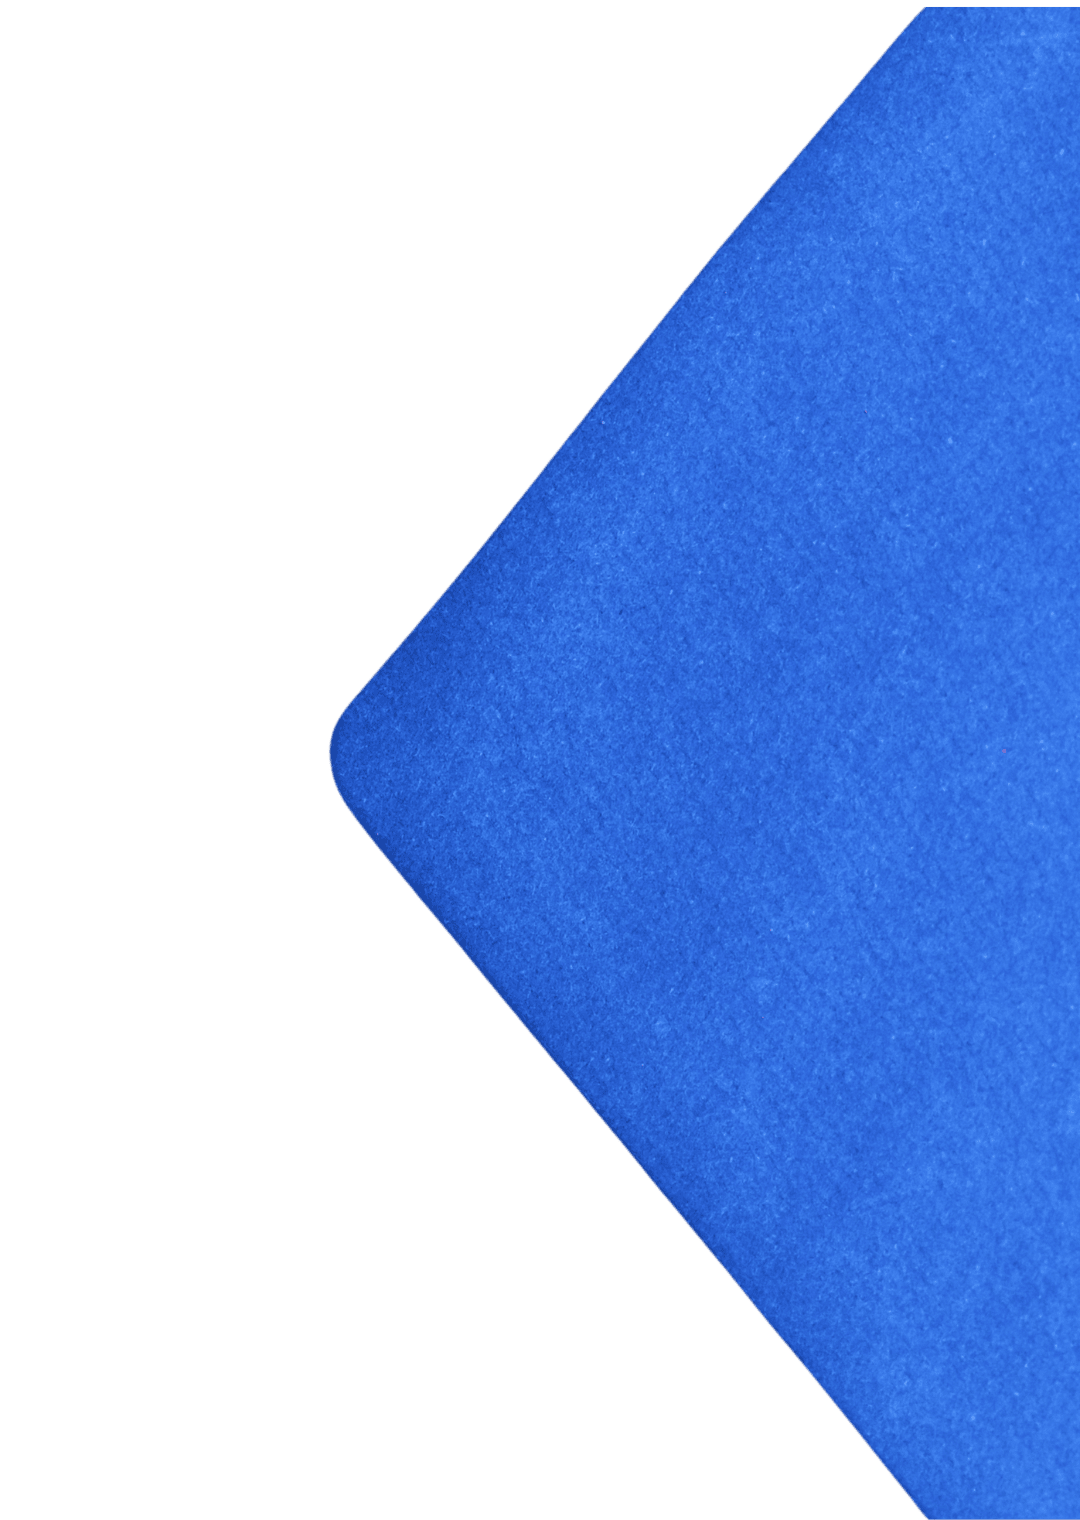
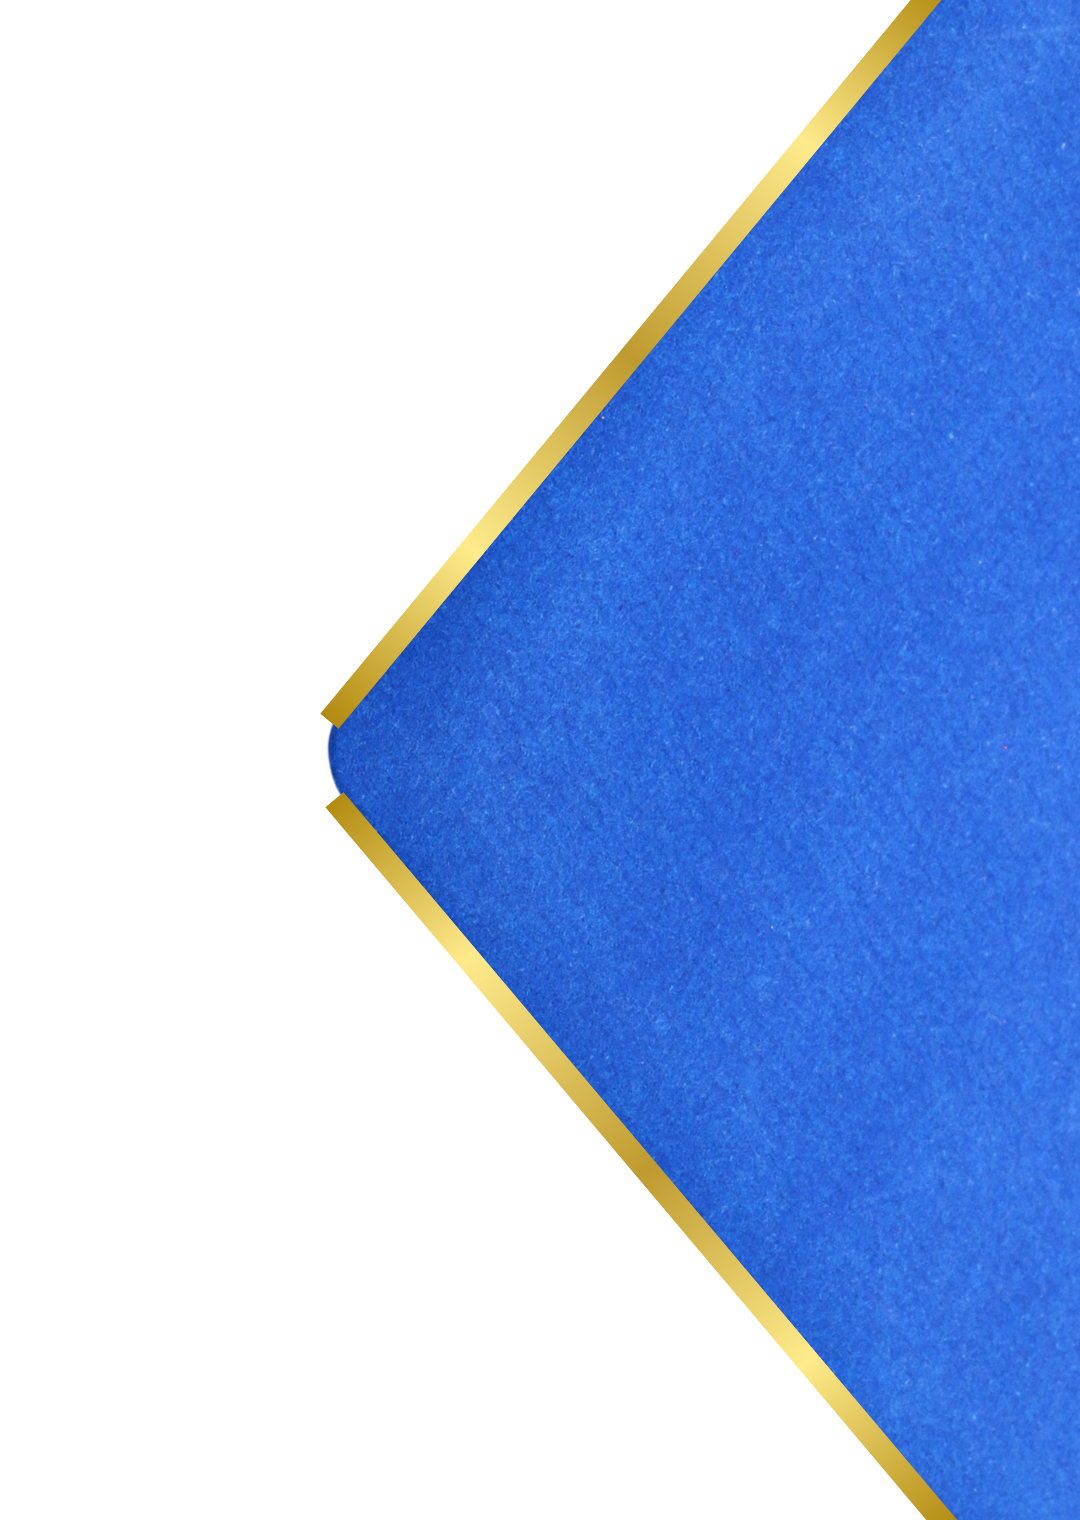
chalala

Changed region(s): [[0.3056, 0.0, 1.0, 1.0], [0.5194, 0.402, 0.55, 0.4329]]

diff --git a/src/components/Invitacion/components/modelo 3/vestimenta.js b/src/components/Invitacion/components/modelo 3/vestimenta.js
@@ -27,6 +27,10 @@ import tonoRojo from '../../../../multimedia/herramientas/tonos rojo.png';
 import tonosHM from '../../../../multimedia/herramientas/tonos hombre y mujer.png';
 import colores from '../../../../multimedia/herramientas/Azul.png';
 
+import icono from '../../../../multimedia/herramientas/adorno dorado.gif';
+import iconoDerecho from '../../../../multimedia/herramientas/Detalle Horizontal derecho.gif';
+import flor from '../../../../multimedia/herramientas/flor central.png';
+
 function Vestimenta ({fondo, datos, festejado, modo}){
 
     return(
@@ -35,6 +39,13 @@ function Vestimenta ({fondo, datos, festejado, modo}){
                 <img loading='lazy' className='fondo' src={fondo.url} alt='...' />
             )}
             <p className="titulo">Código de vestimenta</p>
+            {festejado === 'Consuelo & Andrés' && (
+                <div className='efecto'>
+                    <img src={icono} className='icono' alt='...' />
+                    <img src={flor} className='flor' alt='...' />
+                    <img src={iconoDerecho} className='icono' alt='...' />
+                </div>
+            )}
             <>
                 {modo === 'oscuro' && (
                     <>
@@ -82,12 +93,25 @@ function Vestimenta ({fondo, datos, festejado, modo}){
                     <>
                         {datos.codigo === 'Etiqueta' ? (
                             <>
-                                <div className='iconos'>
-                                    <img loading='lazy' className="icono" src={trajeEtiquetaClaro} alt="..." />
-                                    <img loading='lazy' className="icono" src={vestidoEtiquetaClaro} alt="..." />
-                                </div>
+                                {festejado === 'Consuelo & Andrés' ? (
+                                    <>
+                                        <div className='iconosConand'>
+                                            <img loading='lazy' className="icono" src={trajeEtiquetaClaro} alt="..." />
+                                            <img loading='lazy' className="icono" src={vestidoEtiquetaClaro} alt="..." />
+                                        </div>
 
-                                <p>{datos.codigo}{festejado === 'Alejandra & Alexander' &&(<> rigurosa</>)}</p>
+                                        <p>{datos.codigo}</p>
+                                    </>
+                                ):(
+                                    <>
+                                        <div className='iconos'>
+                                            <img loading='lazy' className="icono" src={trajeEtiquetaClaro} alt="..." />
+                                            <img loading='lazy' className="icono" src={vestidoEtiquetaClaro} alt="..." />
+                                        </div>
+
+                                        <p>{datos.codigo}{festejado === 'Alejandra & Alexander' &&(<> rigurosa</>)}</p>
+                                    </>
+                                )}
                             </>
                         ): datos.codigo === 'Formal' ? (
                             <>

diff --git a/src/styles/modulos/_invitacionesModelo03.scss b/src/styles/modulos/_invitacionesModelo03.scss
@@ -171,18 +171,20 @@ $font-message-size: var(--font-message-size);
         align-items: center;
     
         position: fixed;
-        z-index: 110;
+        z-index: 1110;
         top: 0;
         left: 0;
         width: 400px;
         height: 100vh;
     
         .img {
-            width: 40%;
-            height: 100vh;
+            width: 100%;
+            height: 105vh;
             object-fit: cover;
             transition: transform 0.8s ease-in-out, opacity 0.8s ease-in-out;
     
+            position: absolute;
+
             &.izquierda {
                 transform: translateX(0);
             }
@@ -192,19 +194,27 @@ $font-message-size: var(--font-message-size);
             }
         }
     
-        button {
+        .boton {
             position: absolute;
+            left: 30px;
             z-index: 20;
             background: none;
             border: none;
             cursor: pointer;
     
             img.sello {
-                width: 100px;
+                width: 170px;
+                object-fit: contain;
             }
         }
     
         &.hidden {
+            
+            .boton {
+                transform: translateX(-100%);
+                opacity: 0;
+            }
+
             .img.izquierda {
                 transform: translateX(-100%);
                 opacity: 0;
@@ -1786,6 +1796,27 @@ $font-message-size: var(--font-message-size);
                 z-index: 100;
             }
 
+            .efecto{
+                display: flex;
+                flex-direction: row;
+                justify-content: space-evenly;
+
+                z-index: 100;
+
+                width: 95%;
+
+                margin-top: -50px;
+
+                .icono{
+                    width: 120px;
+
+                }
+
+                .flor{
+                    width: 80px;
+                }
+            }
+
             .iconos{
                 display: flex;
                 flex-direction: row;
@@ -1798,6 +1829,26 @@ $font-message-size: var(--font-message-size);
                 .icono{
                     width: 170px;
                     padding: 10px;
+                }
+            }
+
+            .iconosConand{
+                display: flex;
+                flex-direction: column;
+                justify-content: space-evenly;
+
+                z-index: 100;
+
+                height: 400px;
+
+                margin: 15px 10px;
+
+                .icono{
+                    width: 170px;
+                    padding: 10px;
+
+                    border-radius: 50%;
+                    border: 2px solid #C99309;
                 }
             }
 

diff --git a/src/styles/styles.css b/src/styles/styles.css
@@ -1459,7 +1459,7 @@
 
 .modelo3 {
   position: relative;
-  z-index: 100;
+  z-index: 150;
   margin-top: 70px;
 }
 .modelo3 .portada {
@@ -1534,11 +1534,50 @@
   display: flex;
   flex-direction: row;
   justify-content: center;
-  width: 95%;
+  align-items: center;
+  position: fixed;
+  z-index: 1110;
+  top: 0;
+  left: 0;
+  width: 400px;
   height: 100vh;
 }
 .modelo3 .sobre .img {
-  width: 50%;
+  width: 100%;
+  height: 105vh;
+  object-fit: cover;
+  transition: transform 0.8s ease-in-out, opacity 0.8s ease-in-out;
+  position: absolute;
+}
+.modelo3 .sobre .img.izquierda {
+  transform: translateX(0);
+}
+.modelo3 .sobre .img.derecha {
+  transform: translateX(0);
+}
+.modelo3 .sobre .boton {
+  position: absolute;
+  left: 30px;
+  z-index: 20;
+  background: none;
+  border: none;
+  cursor: pointer;
+}
+.modelo3 .sobre .boton img.sello {
+  width: 170px;
+  object-fit: contain;
+}
+.modelo3 .sobre.hidden .boton {
+  transform: translateX(-100%);
+  opacity: 0;
+}
+.modelo3 .sobre.hidden .img.izquierda {
+  transform: translateX(-100%);
+  opacity: 0;
+}
+.modelo3 .sobre.hidden .img.derecha {
+  transform: translateX(100%);
+  opacity: 0;
 }
 .modelo3 .alternativa-portada {
   display: flex;
@@ -2699,6 +2738,20 @@
   margin-top: 20px;
   z-index: 100;
 }
+.modelo3 .caja .vestimenta .efecto {
+  display: flex;
+  flex-direction: row;
+  justify-content: space-evenly;
+  z-index: 100;
+  width: 95%;
+  margin-top: -50px;
+}
+.modelo3 .caja .vestimenta .efecto .icono {
+  width: 120px;
+}
+.modelo3 .caja .vestimenta .efecto .flor {
+  width: 80px;
+}
 .modelo3 .caja .vestimenta .iconos {
   display: flex;
   flex-direction: row;
@@ -2709,6 +2762,20 @@
 .modelo3 .caja .vestimenta .iconos .icono {
   width: 170px;
   padding: 10px;
+}
+.modelo3 .caja .vestimenta .iconosConand {
+  display: flex;
+  flex-direction: column;
+  justify-content: space-evenly;
+  z-index: 100;
+  height: 400px;
+  margin: 15px 10px;
+}
+.modelo3 .caja .vestimenta .iconosConand .icono {
+  width: 170px;
+  padding: 10px;
+  border-radius: 50%;
+  border: 2px solid #C99309;
 }
 .modelo3 .caja .vestimenta .flores {
   display: flex;

diff --git a/src/components/Invitacion/components/modelo 3/sobre.js b/src/components/Invitacion/components/modelo 3/sobre.js
@@ -1,20 +1,28 @@
 import React, { useState } from 'react';
 import izquierda from '../../../../multimedia/herramientas/sobre izquierda.png';
 import derecha from '../../../../multimedia/herramientas/sobre derecha.png';
-import sello from '../../../../multimedia/herramientas/sello conand.jpg';
+import sello from '../../../../multimedia/herramientas/sello conand.gif';
 
 function Sobre() {
     const [hideImages, setHideImages] = useState(false);
 
     const handleClick = () => {
         setHideImages(true);
+
+        const sobre = document.querySelector('.sobre');
+        sobre.classList.add('hidden'); // Agrega la clase para animar
+    
+        // Espera el tiempo de la animación antes de aplicar display: none
+        setTimeout(() => {
+          sobre.style.display = 'none';
+        }, 500); 
     };
 
     return (
         <section className={`sobre ${hideImages ? 'hidden' : ''}`}>
             <img className="img izquierda" src={izquierda} alt="..." />
             <img className="img derecha" src={derecha} alt="..." />
-            <button onClick={handleClick}>
+            <button className={`boton ${hideImages ? 'hidden' : ''}`} onClick={handleClick}>
                 <img className="sello" src={sello} alt="..." />
             </button>
         </section>

diff --git a/src/components/Invitacion/invitacion - modelo 3.js b/src/components/Invitacion/invitacion - modelo 3.js
@@ -1,6 +1,6 @@
 import React, { useEffect, lazy, Suspense } from 'react';
 import Mensaje3 from './components/modelo 3/mensaje3';
-//import Sobre from './components/modelo 3/sobre';
+import Sobre from './components/modelo 3/sobre';
 
 const Portada = lazy(() => import("./components/modelo 3/portada"));
 const Mensaje = lazy(() => import("./components/modelo 3/mensaje"));
@@ -70,9 +70,9 @@ function Invitaciones({ evento }) {
                 <Cancion 
                     url={evento.multimedia.cancion.url}
                 />
-                {/* {evento.datos.festejado === 'Consuelo & Andrés' && (
+                {evento.datos.festejado === 'Consuelo & Andrés' && (
                     <Sobre />
-                )} */}
+                )}
                 <Desplazar />
                 <div className="caja">
                     <MensajeDos 
